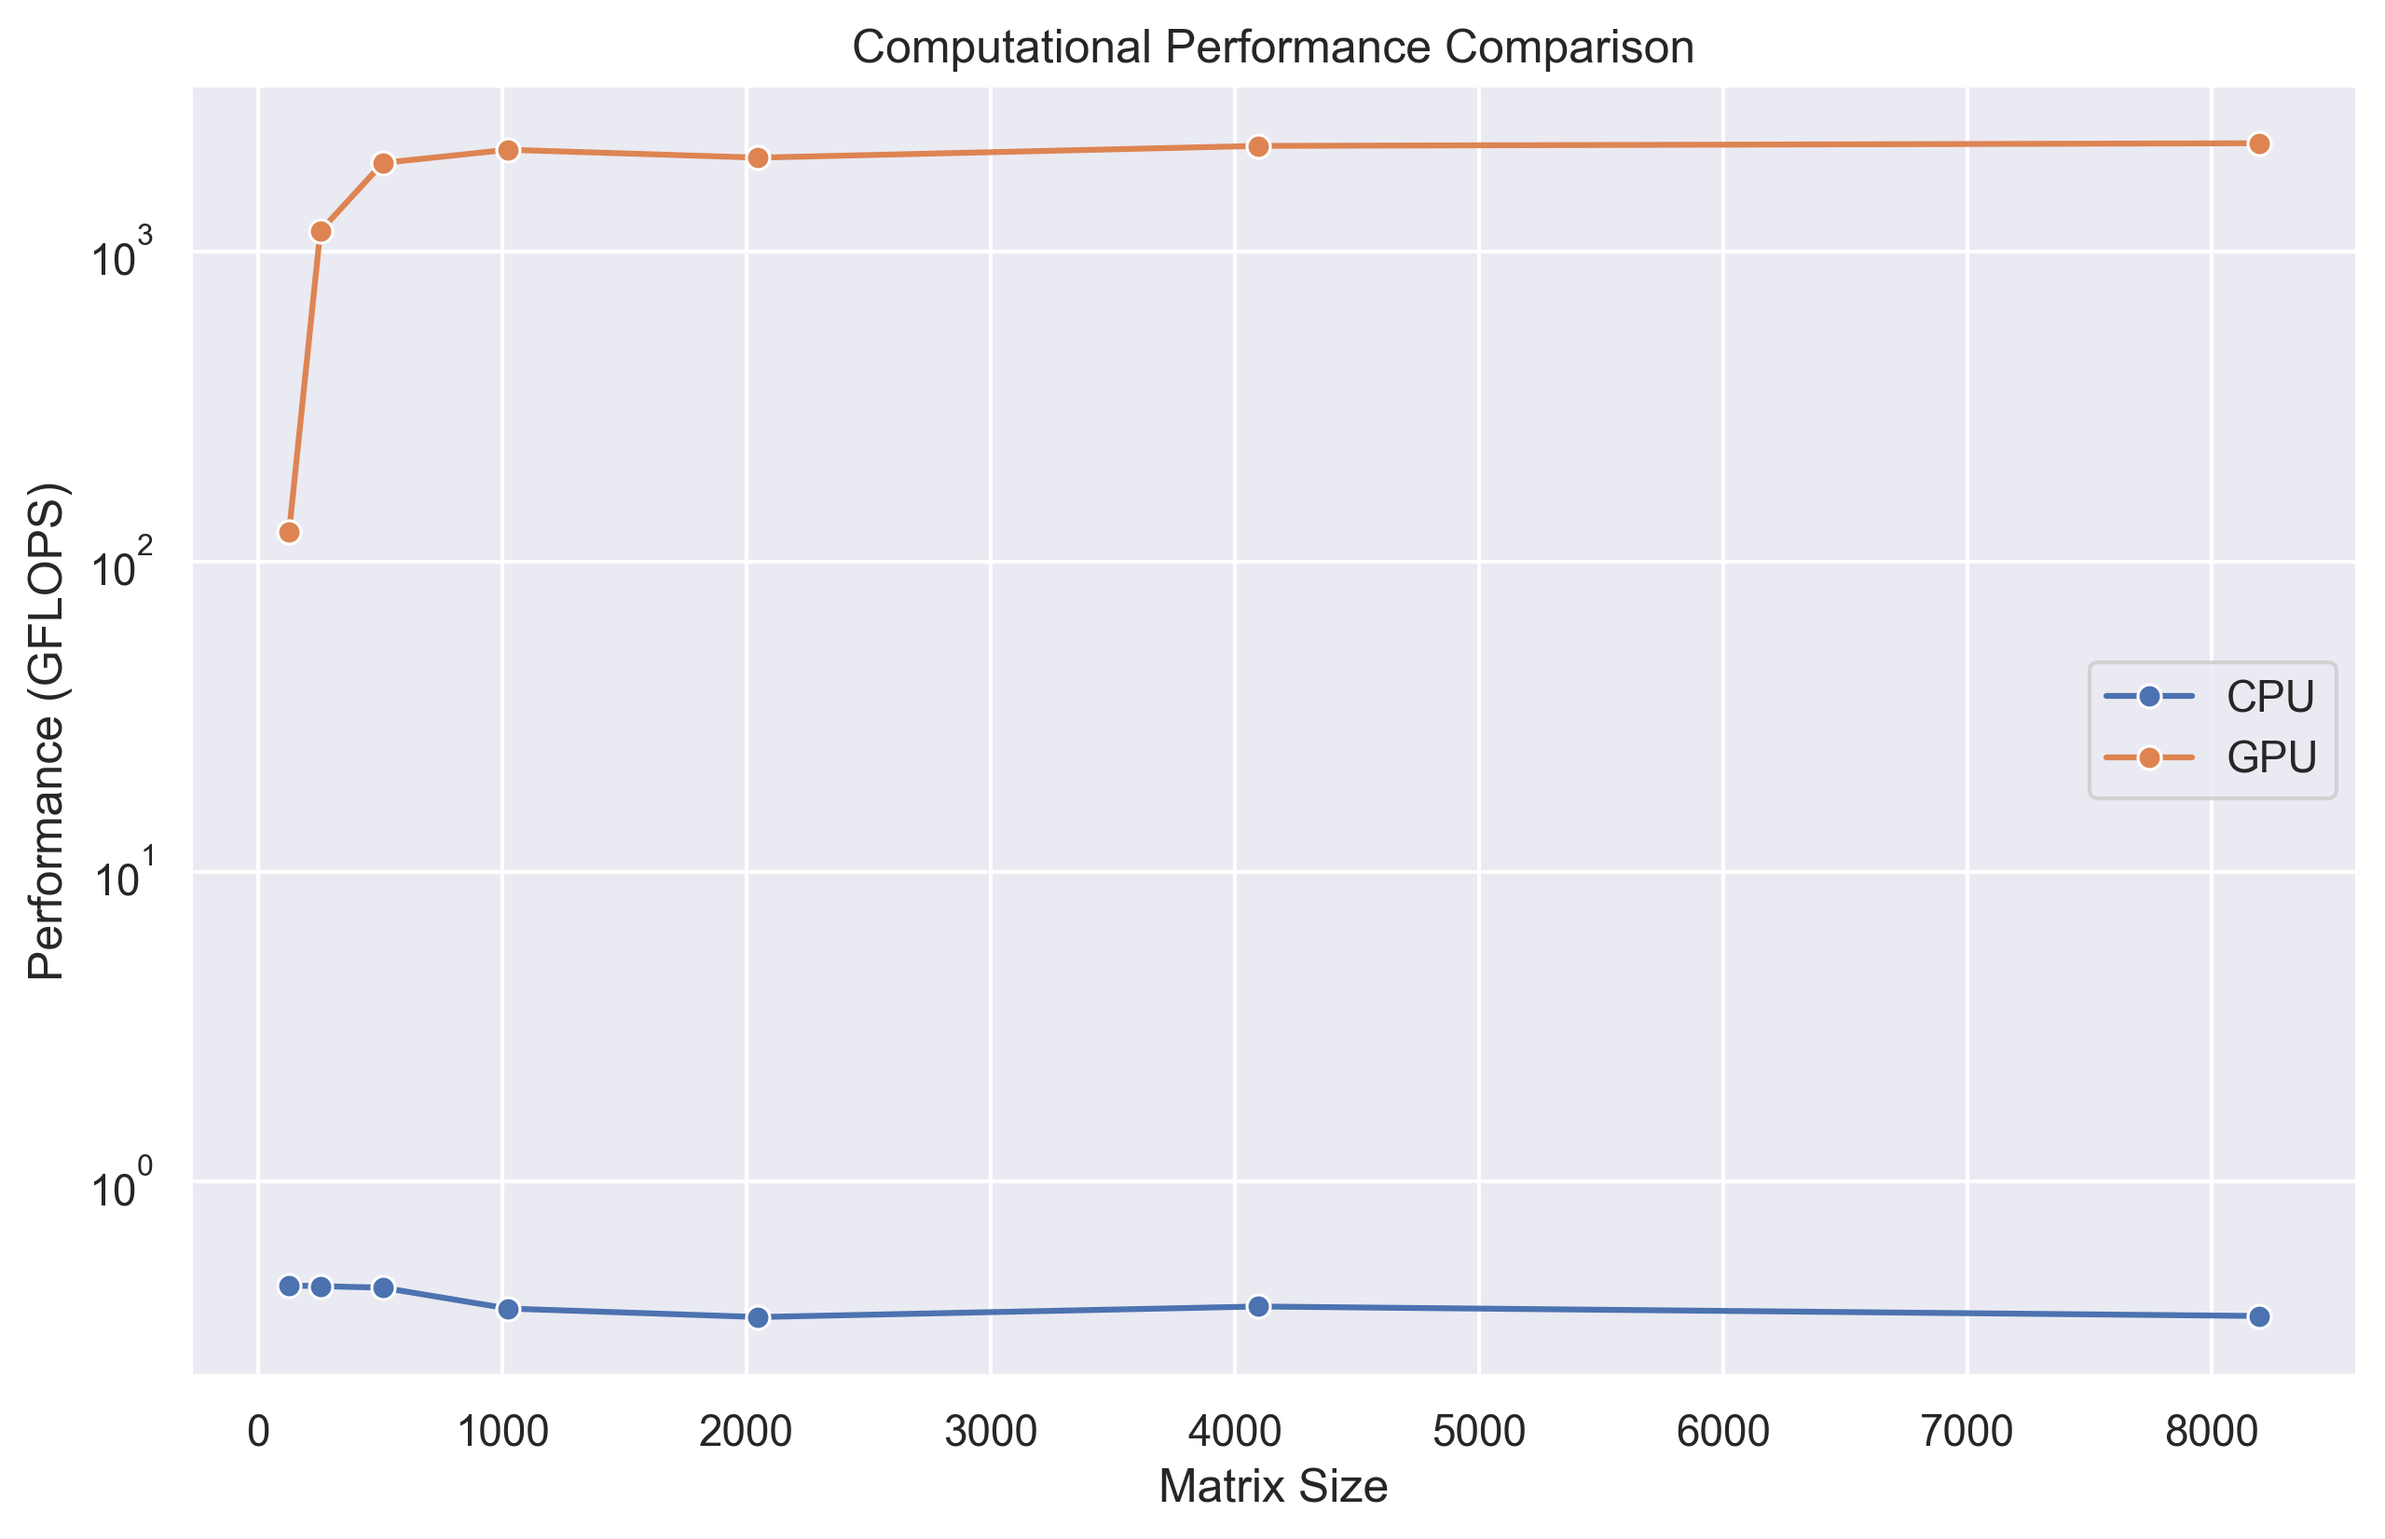
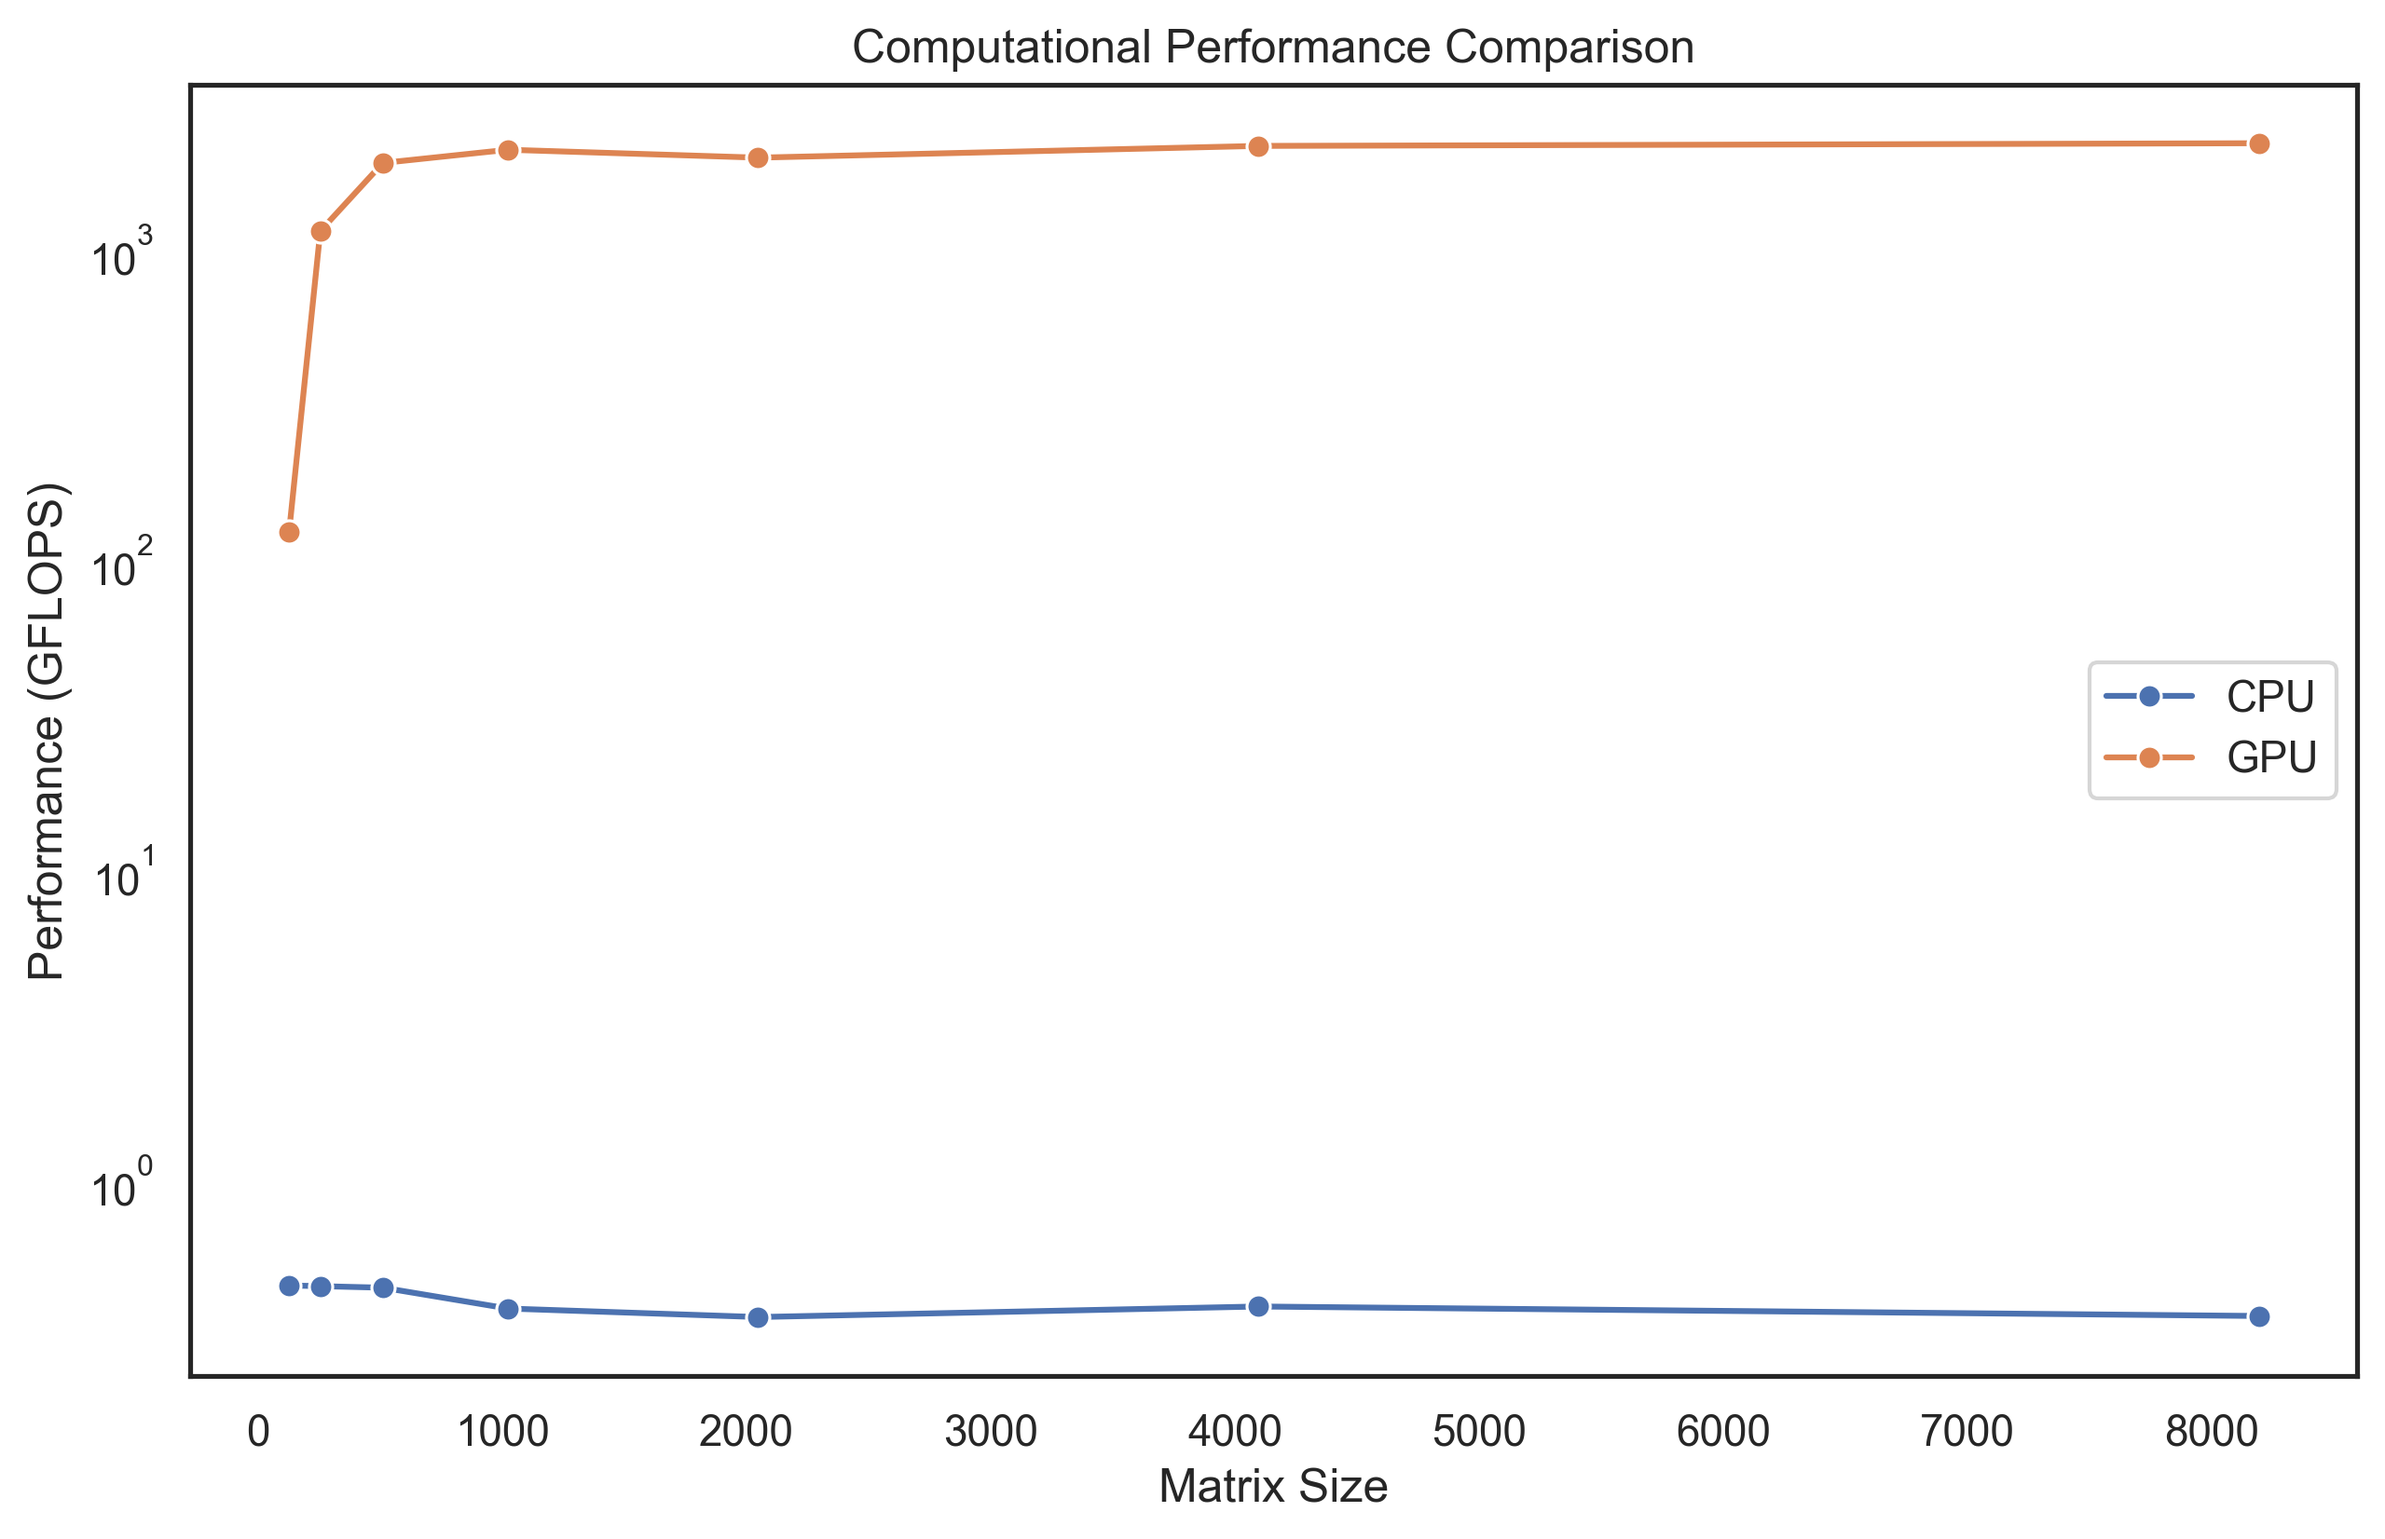
updated plot style

Changed region(s): [[0.9879, 0.0617, 1.0, 0.8953], [0.957, 0.0309, 0.9879, 0.0617]]

diff --git a/viz.py b/viz.py
@@ -11,7 +11,7 @@ if not os.path.exists('images'):
 data = pd.read_csv('data/results.csv')
 
 # Set seaborn style
-sns.set_theme(style="darkgrid")
+sns.set_theme(style="white")
 figure_size = (10, 6)
 
 # 1. Time comparison plot
